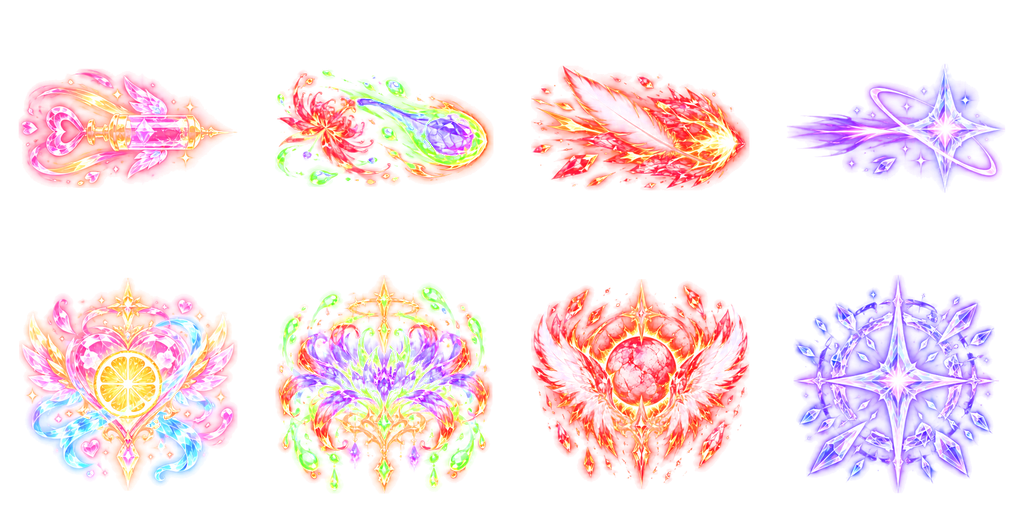
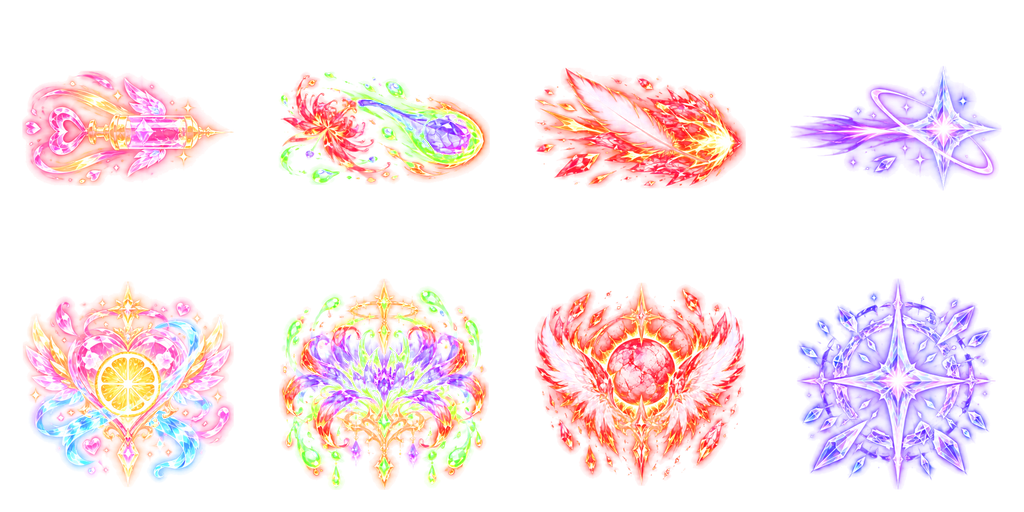
Star Garden pass 15: 14px gutters for the new effect atlases, reports regenerated, tests follow the new atlases
- companion-vfx: retire the two Sol-pass snapshot tests superseded by PR #629 (they already failed on main); the
  size budget now applies to the shipped optimized atlases
- README: bottom menu is 홈 / 동료 / 모험 / 소환 / 정원

diff --git a/defense/docs/asset-optimization-review.html b/defense/docs/asset-optimization-review.html
@@ -1,9 +1,9 @@
 <!doctype html><html lang="ko"><meta charset="utf-8"><meta name="viewport" content="width=device-width,initial-scale=1"><title>별빛 정원 이미지 압축 비교</title>
 <style>body{font:15px/1.5 system-ui;margin:0;background:#101b30;color:#eaf1ff}header{position:sticky;top:0;background:#16243af2;padding:14px 20px;z-index:1}h1{font-size:20px;margin:0 0 8px}select,label{margin-right:16px}main{max-width:1000px;margin:auto;padding:16px}article{padding:18px 0;border-bottom:1px solid #58708b}h2{font-size:17px;margin:0 0 10px}.pair{display:grid;grid-template-columns:1fr 1fr;gap:14px}figure{margin:0;min-width:0}figcaption{margin-bottom:8px}.image{height:280px;display:flex;align-items:center;justify-content:center;background:#314b63;border-radius:8px;overflow:hidden}img{max-width:100%;max-height:100%;object-fit:contain}.path{display:block;overflow-wrap:anywhere;color:#acd4ff;margin-top:8px}p{overflow-wrap:anywhere;color:#bdd0e4;font-size:12px}.light .image{background:#e5dfd1}.front .unit .image{width:128px;height:128px;display:block}.front .unit img{width:256px;height:256px;max-width:none;max-height:none}article[hidden]{display:none}@media(max-width:500px){main{padding:10px}.image{height:220px}header{padding:10px}}</style>
-<header><h1>별빛 정원 · 압축 전 / 배포 이미지</h1><select aria-label="이미지 종류"><option value="">전체</option><option>atlas</option><option>unit</option><option>ultimate</option><option>illustration</option><option>memorialAvif</option><option>memorialWebp</option></select><label><input id="light" type="checkbox">밝은 바닥</label><label><input id="front" type="checkbox">동료 정면 128px</label><div>그림을 누르면 저장된 파일을 엽니다. 화질은 사용자 검토 대상입니다. 제작 원본 PNG가 아닌 이번 압축 전 Git 보관본과 비교합니다.</div></header><main><article data-profile="atlas" class=""><h2>atlas:effects-companion-sweet</h2><div class="pair"><figure><figcaption>압축 전 보관본 · 570.2 KiB · 1024×512</figcaption><a class="image" href="../assets/merge/effects-companion-sweet.webp" target="_blank"><img loading="lazy" decoding="async" src="../assets/merge/effects-companion-sweet.webp" alt="atlas:effects-companion-sweet 압축 전 보관본"></a><a class="path" href="../assets/merge/effects-companion-sweet.webp">./assets/merge/effects-companion-sweet.webp</a></figure><figure><figcaption>배포 압축본 · 313.1 KiB · 1024×512</figcaption><a class="image" href="../assets/optimized/merge/effects-companion-sweet.webp" target="_blank"><img loading="lazy" decoding="async" src="../assets/optimized/merge/effects-companion-sweet.webp" alt="atlas:effects-companion-sweet 배포 압축본"></a><a class="path" href="../assets/optimized/merge/effects-companion-sweet.webp">./assets/optimized/merge/effects-companion-sweet.webp</a></figure></div><p>window.__ASTRA_ASSETS__.effects-companion-sweet; combat renderer / stage UI</p></article>
-<article data-profile="atlas" class=""><h2>atlas:effects-companion-twilight</h2><div class="pair"><figure><figcaption>압축 전 보관본 · 533.4 KiB · 1024×512</figcaption><a class="image" href="../assets/merge/effects-companion-twilight.webp" target="_blank"><img loading="lazy" decoding="async" src="../assets/merge/effects-companion-twilight.webp" alt="atlas:effects-companion-twilight 압축 전 보관본"></a><a class="path" href="../assets/merge/effects-companion-twilight.webp">./assets/merge/effects-companion-twilight.webp</a></figure><figure><figcaption>배포 압축본 · 263.1 KiB · 1024×512</figcaption><a class="image" href="../assets/optimized/merge/effects-companion-twilight.webp" target="_blank"><img loading="lazy" decoding="async" src="../assets/optimized/merge/effects-companion-twilight.webp" alt="atlas:effects-companion-twilight 배포 압축본"></a><a class="path" href="../assets/optimized/merge/effects-companion-twilight.webp">./assets/optimized/merge/effects-companion-twilight.webp</a></figure></div><p>window.__ASTRA_ASSETS__.effects-companion-twilight; combat renderer / stage UI</p></article>
-<article data-profile="atlas" class=""><h2>atlas:ultimates-extra-a</h2><div class="pair"><figure><figcaption>압축 전 보관본 · 723.5 KiB · 1024×512</figcaption><a class="image" href="../assets/merge/ultimates-extra-a.webp" target="_blank"><img loading="lazy" decoding="async" src="../assets/merge/ultimates-extra-a.webp" alt="atlas:ultimates-extra-a 압축 전 보관본"></a><a class="path" href="../assets/merge/ultimates-extra-a.webp">./assets/merge/ultimates-extra-a.webp</a></figure><figure><figcaption>배포 압축본 · 408.2 KiB · 1024×512</figcaption><a class="image" href="../assets/optimized/merge/ultimates-extra-a.webp" target="_blank"><img loading="lazy" decoding="async" src="../assets/optimized/merge/ultimates-extra-a.webp" alt="atlas:ultimates-extra-a 배포 압축본"></a><a class="path" href="../assets/optimized/merge/ultimates-extra-a.webp">./assets/optimized/merge/ultimates-extra-a.webp</a></figure></div><p>window.__ASTRA_ASSETS__.ultimates-extra-a; combat renderer / stage UI</p></article>
-<article data-profile="atlas" class=""><h2>atlas:ultimates-extra-b</h2><div class="pair"><figure><figcaption>압축 전 보관본 · 601.1 KiB · 768×512</figcaption><a class="image" href="../assets/merge/ultimates-extra-b.webp" target="_blank"><img loading="lazy" decoding="async" src="../assets/merge/ultimates-extra-b.webp" alt="atlas:ultimates-extra-b 압축 전 보관본"></a><a class="path" href="../assets/merge/ultimates-extra-b.webp">./assets/merge/ultimates-extra-b.webp</a></figure><figure><figcaption>배포 압축본 · 329.3 KiB · 768×512</figcaption><a class="image" href="../assets/optimized/merge/ultimates-extra-b.webp" target="_blank"><img loading="lazy" decoding="async" src="../assets/optimized/merge/ultimates-extra-b.webp" alt="atlas:ultimates-extra-b 배포 압축본"></a><a class="path" href="../assets/optimized/merge/ultimates-extra-b.webp">./assets/optimized/merge/ultimates-extra-b.webp</a></figure></div><p>window.__ASTRA_ASSETS__.ultimates-extra-b; combat renderer / stage UI</p></article>
+<header><h1>별빛 정원 · 압축 전 / 배포 이미지</h1><select aria-label="이미지 종류"><option value="">전체</option><option>atlas</option><option>unit</option><option>ultimate</option><option>illustration</option><option>memorialAvif</option><option>memorialWebp</option></select><label><input id="light" type="checkbox">밝은 바닥</label><label><input id="front" type="checkbox">동료 정면 128px</label><div>그림을 누르면 저장된 파일을 엽니다. 화질은 사용자 검토 대상입니다. 제작 원본 PNG가 아닌 이번 압축 전 Git 보관본과 비교합니다.</div></header><main><article data-profile="atlas" class=""><h2>atlas:effects-companion-sweet</h2><div class="pair"><figure><figcaption>압축 전 보관본 · 535.6 KiB · 1024×512</figcaption><a class="image" href="../assets/merge/effects-companion-sweet.webp" target="_blank"><img loading="lazy" decoding="async" src="../assets/merge/effects-companion-sweet.webp" alt="atlas:effects-companion-sweet 압축 전 보관본"></a><a class="path" href="../assets/merge/effects-companion-sweet.webp">./assets/merge/effects-companion-sweet.webp</a></figure><figure><figcaption>배포 압축본 · 294.9 KiB · 1024×512</figcaption><a class="image" href="../assets/optimized/merge/effects-companion-sweet.webp" target="_blank"><img loading="lazy" decoding="async" src="../assets/optimized/merge/effects-companion-sweet.webp" alt="atlas:effects-companion-sweet 배포 압축본"></a><a class="path" href="../assets/optimized/merge/effects-companion-sweet.webp">./assets/optimized/merge/effects-companion-sweet.webp</a></figure></div><p>window.__ASTRA_ASSETS__.effects-companion-sweet; combat renderer / stage UI</p></article>
+<article data-profile="atlas" class=""><h2>atlas:effects-companion-twilight</h2><div class="pair"><figure><figcaption>압축 전 보관본 · 502.5 KiB · 1024×512</figcaption><a class="image" href="../assets/merge/effects-companion-twilight.webp" target="_blank"><img loading="lazy" decoding="async" src="../assets/merge/effects-companion-twilight.webp" alt="atlas:effects-companion-twilight 압축 전 보관본"></a><a class="path" href="../assets/merge/effects-companion-twilight.webp">./assets/merge/effects-companion-twilight.webp</a></figure><figure><figcaption>배포 압축본 · 248.3 KiB · 1024×512</figcaption><a class="image" href="../assets/optimized/merge/effects-companion-twilight.webp" target="_blank"><img loading="lazy" decoding="async" src="../assets/optimized/merge/effects-companion-twilight.webp" alt="atlas:effects-companion-twilight 배포 압축본"></a><a class="path" href="../assets/optimized/merge/effects-companion-twilight.webp">./assets/optimized/merge/effects-companion-twilight.webp</a></figure></div><p>window.__ASTRA_ASSETS__.effects-companion-twilight; combat renderer / stage UI</p></article>
+<article data-profile="atlas" class=""><h2>atlas:ultimates-extra-a</h2><div class="pair"><figure><figcaption>압축 전 보관본 · 681.4 KiB · 1024×512</figcaption><a class="image" href="../assets/merge/ultimates-extra-a.webp" target="_blank"><img loading="lazy" decoding="async" src="../assets/merge/ultimates-extra-a.webp" alt="atlas:ultimates-extra-a 압축 전 보관본"></a><a class="path" href="../assets/merge/ultimates-extra-a.webp">./assets/merge/ultimates-extra-a.webp</a></figure><figure><figcaption>배포 압축본 · 384.9 KiB · 1024×512</figcaption><a class="image" href="../assets/optimized/merge/ultimates-extra-a.webp" target="_blank"><img loading="lazy" decoding="async" src="../assets/optimized/merge/ultimates-extra-a.webp" alt="atlas:ultimates-extra-a 배포 압축본"></a><a class="path" href="../assets/optimized/merge/ultimates-extra-a.webp">./assets/optimized/merge/ultimates-extra-a.webp</a></figure></div><p>window.__ASTRA_ASSETS__.ultimates-extra-a; combat renderer / stage UI</p></article>
+<article data-profile="atlas" class=""><h2>atlas:ultimates-extra-b</h2><div class="pair"><figure><figcaption>압축 전 보관본 · 560.6 KiB · 768×512</figcaption><a class="image" href="../assets/merge/ultimates-extra-b.webp" target="_blank"><img loading="lazy" decoding="async" src="../assets/merge/ultimates-extra-b.webp" alt="atlas:ultimates-extra-b 압축 전 보관본"></a><a class="path" href="../assets/merge/ultimates-extra-b.webp">./assets/merge/ultimates-extra-b.webp</a></figure><figure><figcaption>배포 압축본 · 309.4 KiB · 768×512</figcaption><a class="image" href="../assets/optimized/merge/ultimates-extra-b.webp" target="_blank"><img loading="lazy" decoding="async" src="../assets/optimized/merge/ultimates-extra-b.webp" alt="atlas:ultimates-extra-b 배포 압축본"></a><a class="path" href="../assets/optimized/merge/ultimates-extra-b.webp">./assets/optimized/merge/ultimates-extra-b.webp</a></figure></div><p>window.__ASTRA_ASSETS__.ultimates-extra-b; combat renderer / stage UI</p></article>
 <article data-profile="unit" class="unit"><h2>atlas:unit-zeke</h2><div class="pair"><figure><figcaption>압축 전 보관본 · 283.0 KiB · 1024×1024</figcaption><a class="image" href="../assets/cast-v2/zeke.webp" target="_blank"><img loading="lazy" decoding="async" src="../assets/cast-v2/zeke.webp" alt="atlas:unit-zeke 압축 전 보관본"></a><a class="path" href="../assets/cast-v2/zeke.webp">./assets/cast-v2/zeke.webp</a></figure><figure><figcaption>배포 압축본 · 106.2 KiB · 640×640</figcaption><a class="image" href="../assets/optimized/cast-v2/zeke.webp" target="_blank"><img loading="lazy" decoding="async" src="../assets/optimized/cast-v2/zeke.webp" alt="atlas:unit-zeke 배포 압축본"></a><a class="path" href="../assets/optimized/cast-v2/zeke.webp">./assets/optimized/cast-v2/zeke.webp</a></figure></div><p>window.__ASTRA_ASSETS__.unit-zeke; combat renderer / stage UI<br>portrait:zeke; collection / party / summon<br>figure:zeke; home / details / cut-in / results</p></article>
 <article data-profile="unit" class="unit"><h2>atlas:unit-rumi</h2><div class="pair"><figure><figcaption>압축 전 보관본 · 195.0 KiB · 1024×1024</figcaption><a class="image" href="../assets/cast-v2/rumi.webp" target="_blank"><img loading="lazy" decoding="async" src="../assets/cast-v2/rumi.webp" alt="atlas:unit-rumi 압축 전 보관본"></a><a class="path" href="../assets/cast-v2/rumi.webp">./assets/cast-v2/rumi.webp</a></figure><figure><figcaption>배포 압축본 · 73.6 KiB · 640×640</figcaption><a class="image" href="../assets/optimized/cast-v2/rumi.webp" target="_blank"><img loading="lazy" decoding="async" src="../assets/optimized/cast-v2/rumi.webp" alt="atlas:unit-rumi 배포 압축본"></a><a class="path" href="../assets/optimized/cast-v2/rumi.webp">./assets/optimized/cast-v2/rumi.webp</a></figure></div><p>window.__ASTRA_ASSETS__.unit-rumi; combat renderer / stage UI<br>portrait:rumi; collection / party / summon<br>figure:rumi; home / details / cut-in / results</p></article>
 <article data-profile="unit" class="unit"><h2>atlas:unit-luna</h2><div class="pair"><figure><figcaption>압축 전 보관본 · 197.0 KiB · 1024×1024</figcaption><a class="image" href="../assets/cast-v2/luna.webp" target="_blank"><img loading="lazy" decoding="async" src="../assets/cast-v2/luna.webp" alt="atlas:unit-luna 압축 전 보관본"></a><a class="path" href="../assets/cast-v2/luna.webp">./assets/cast-v2/luna.webp</a></figure><figure><figcaption>배포 압축본 · 70.4 KiB · 640×640</figcaption><a class="image" href="../assets/optimized/cast-v2/luna.webp" target="_blank"><img loading="lazy" decoding="async" src="../assets/optimized/cast-v2/luna.webp" alt="atlas:unit-luna 배포 압축본"></a><a class="path" href="../assets/optimized/cast-v2/luna.webp">./assets/optimized/cast-v2/luna.webp</a></figure></div><p>window.__ASTRA_ASSETS__.unit-luna; combat renderer / stage UI<br>portrait:luna; collection / party / summon<br>figure:luna; home / details / cut-in / results</p></article>

diff --git a/defense/docs/CURRENT_VALUES.md b/defense/docs/CURRENT_VALUES.md
@@ -104,7 +104,7 @@
 | 신데렐라 | UR·히든 | 26 | 1 | 단일 | 480 | 보통 | 성급이 가장 높은 신데렐라 1명이 진짜 신데렐라가 되어 위력 +50%. 공격할 때마다 시계가 한 칸 가고, 12번째 공격은 자정의 종입니다: 보스(없으면 대상)에게 위력 10배, 주변 적에게 3배. | **자정의 기적**: 적 전체에게 위력 3배 피해를 줍니다. 10초 동안 진짜 신데렐라의 공격 속도가 50% 오르고, 4번째 공격마다 자정의 종이 울립니다. | 65 |
 | 하모니어스 | UR·히든 | 14 | 1.3 | 단일 | 460 | 작음 | 상하좌우에 서로 다른 동료가 많을수록, 그 동료들의 위력(종류당 +6%)과 공격 속도(종류당 +5%)가 오릅니다. | **디저트 앙상블**: 10초 동안 모든 동료의 위력과 공격 속도가 22% 오릅니다. | 70 |
 | 혹한의마녀 | UR·히든 | 38 | 1.5 | 관통 | 550/32 | 큼 | 얼음창이 일직선으로 관통하며 40% 느리게 합니다. 이미 느려진 적은 0.6초 얼립니다(같은 적은 3초 뒤 다시). 얼어 있던 적이 쓰러지면 주변 적도 느려집니다. | **빙궁의 칙령**: 적 전체에게 위력 9배 피해를 줍니다. 6초 동안 겨울 왕국이 되어 모든 적이 50% 느려지고 받는 피해가 15% 늘어나며, 쓰러진 적이 주변 적을 0.8초 얼립니다. | 80 |
-| 베히모스 | UR·히든 | 42 | 2 | 원형(자기 칸) | 210/210 | 큼 | 자기 칸 주변(반경 210)의 적을 모두 칩니다. 상하좌우 동료의 오라 효과를 두 배로 받습니다. | **대지분쇄**: 무작위 적을 노려 주변(반경 112.5)에 위력 6배 충격을 0.5초 간격으로 3번 줍니다. 훈련마다 기본 반경의 5%가 더해집니다. | 70 |
+| 베히모스 | UR·히든 | 42 | 2 | 원형(자기 칸) | 210/210 | 큼 | 자기 칸 주변(반경 210)의 적을 모두 칩니다. 상하좌우 동료의 오라 효과를 두 배로 받습니다. | **대지분쇄**: 무작위 적을 노려 주변에 위력 6배 충격을 0.5초 간격으로 3번 줍니다. 훈련마다 범위 +5%. | 70 |
 
 ## 유물
 

diff --git a/defense/README.md b/defense/README.md
@@ -7,7 +7,7 @@
 - `dist/StarGardenDefense.html`(일반판) 또는 `dist/StarGardenDefenseBright.html`(Bright)를 브라우저로 엽니다. 그림·BGM·폰트·게임 코드가 포함된 오프라인 단일 파일입니다.
 - 초기 동료는 별똥별소년·눈토끼·밤토끼·세이렌·명탐정 각 1명이며 항상 5명을 편성합니다.
 - 새 전투는 그중 랜덤 3명으로 시작합니다. 위치 이동·교환·합성은 드래그로만 하며, 탭은 동료 정보를 표시합니다. 별빛 기본 최대치는 120이고, 별이슬 샘 레벨마다 1씩 늘어납니다.
-- 하단 메뉴: 홈 / 동료 / 모험 / 소환 / 파견.
+- 하단 메뉴: 홈 / 동료 / 모험 / 소환 / 정원.
 - 홈에서 파트너와 대화하고, 인사·선물·별똥별(방치 보상)·꿈의 온실을 합니다. 동료 메뉴에서 성장·중복 강화·유물 장착을 합니다.
 - 전투 자동 보조는 처음에 켜져 있습니다. 소환·합성·훈련·보스 스킬을 보조하며 직접 배치, 합성, 타깃 우선순위와 스킬을 조작할 수 있습니다. 전투는 일시정지·2배속·저장 후 귀환·중도 정산을 지원합니다.
 - 주간·월간 도전은 쉬움이 메인 3스테이지, 어려움이 36, 심연이 72에서 열립니다. 라인업은 메인에서 만난 보스만 씁니다. 만난 순서로 최대 9종이고, 이번 주 스테이지는 주 번호를 만난 수로 나눈 나머지에 1을 더한 값입니다. 파견 슬롯은 9·18·27·36스테이지 클리어에서 열립니다.
